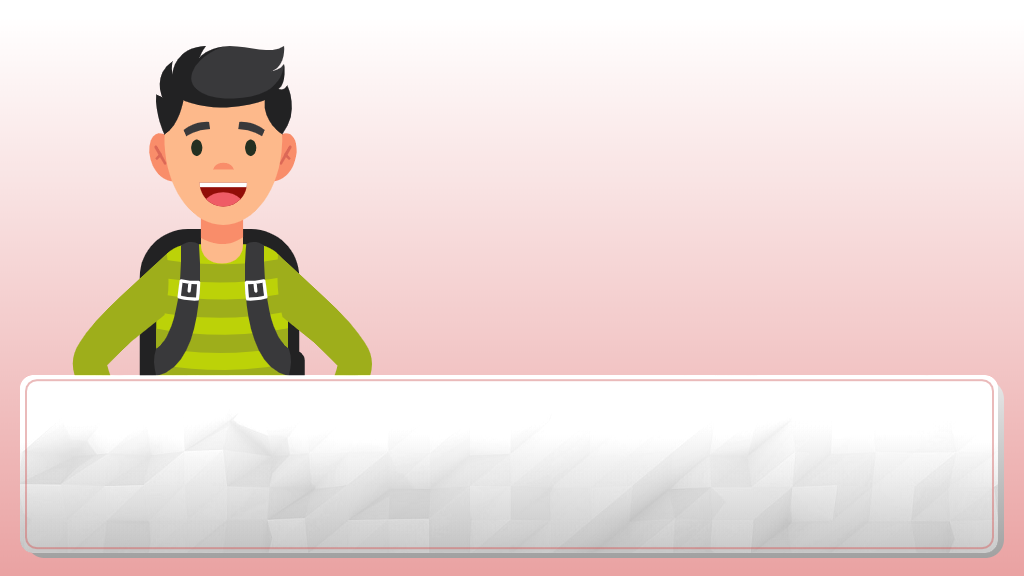
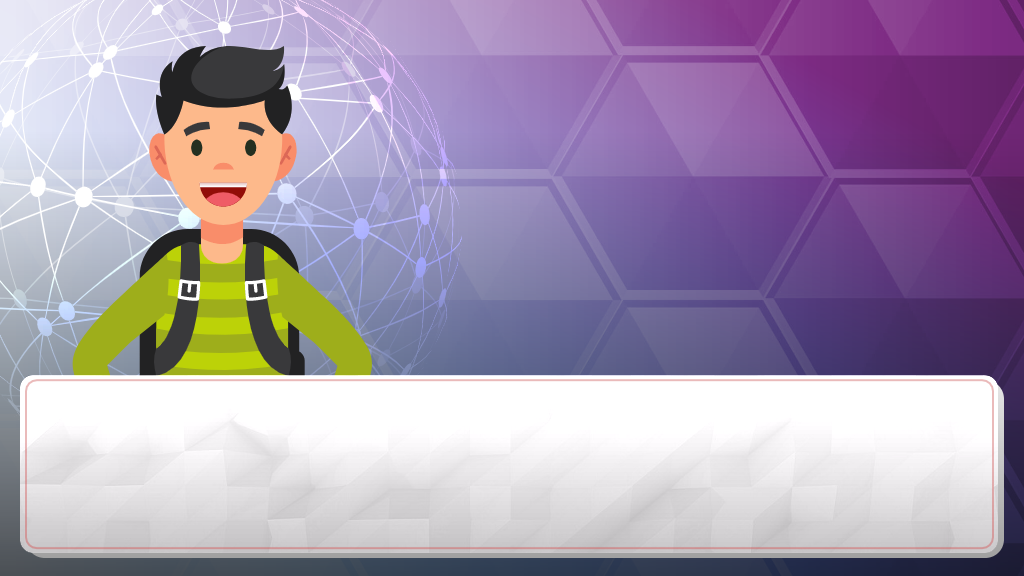
Replace Josh Background; Fix Words Amound in Start Screen

diff --git a/interfaces/StartMatch.py b/interfaces/StartMatch.py
@@ -12,12 +12,13 @@ class StartMatch(BaseScreen):
         self.basicElements()
 
     def basicElements(self):
+        words_amount = len(self.session.crossword.structure)
         start_btn = buttons["start_match"].copy()
         start_label = text("Iniciar Partida", "asap/regular.ttf", 18, "#FFFFFF", (120, 25))
         start_btn.blit(start_label, (53, 12))
 
         country_label = text("País: " + self.session.country["name"], "asap/semibold.ttf", 27, "#373737", (220, 35))
-        words_label = text(str(self.session.level * 3) + " palavras ocultas", "asap/italic.ttf", 20, "#5E5D5D", (220, 35))
+        words_label = text(str(words_amount) + " palavras ocultas", "asap/italic.ttf", 20, "#5E5D5D", (220, 35))
 
         self.base_screen.blit(badges[self.session.level - 1], (295, 55))
         self.base_screen.blit(country_label, (247, 448))
